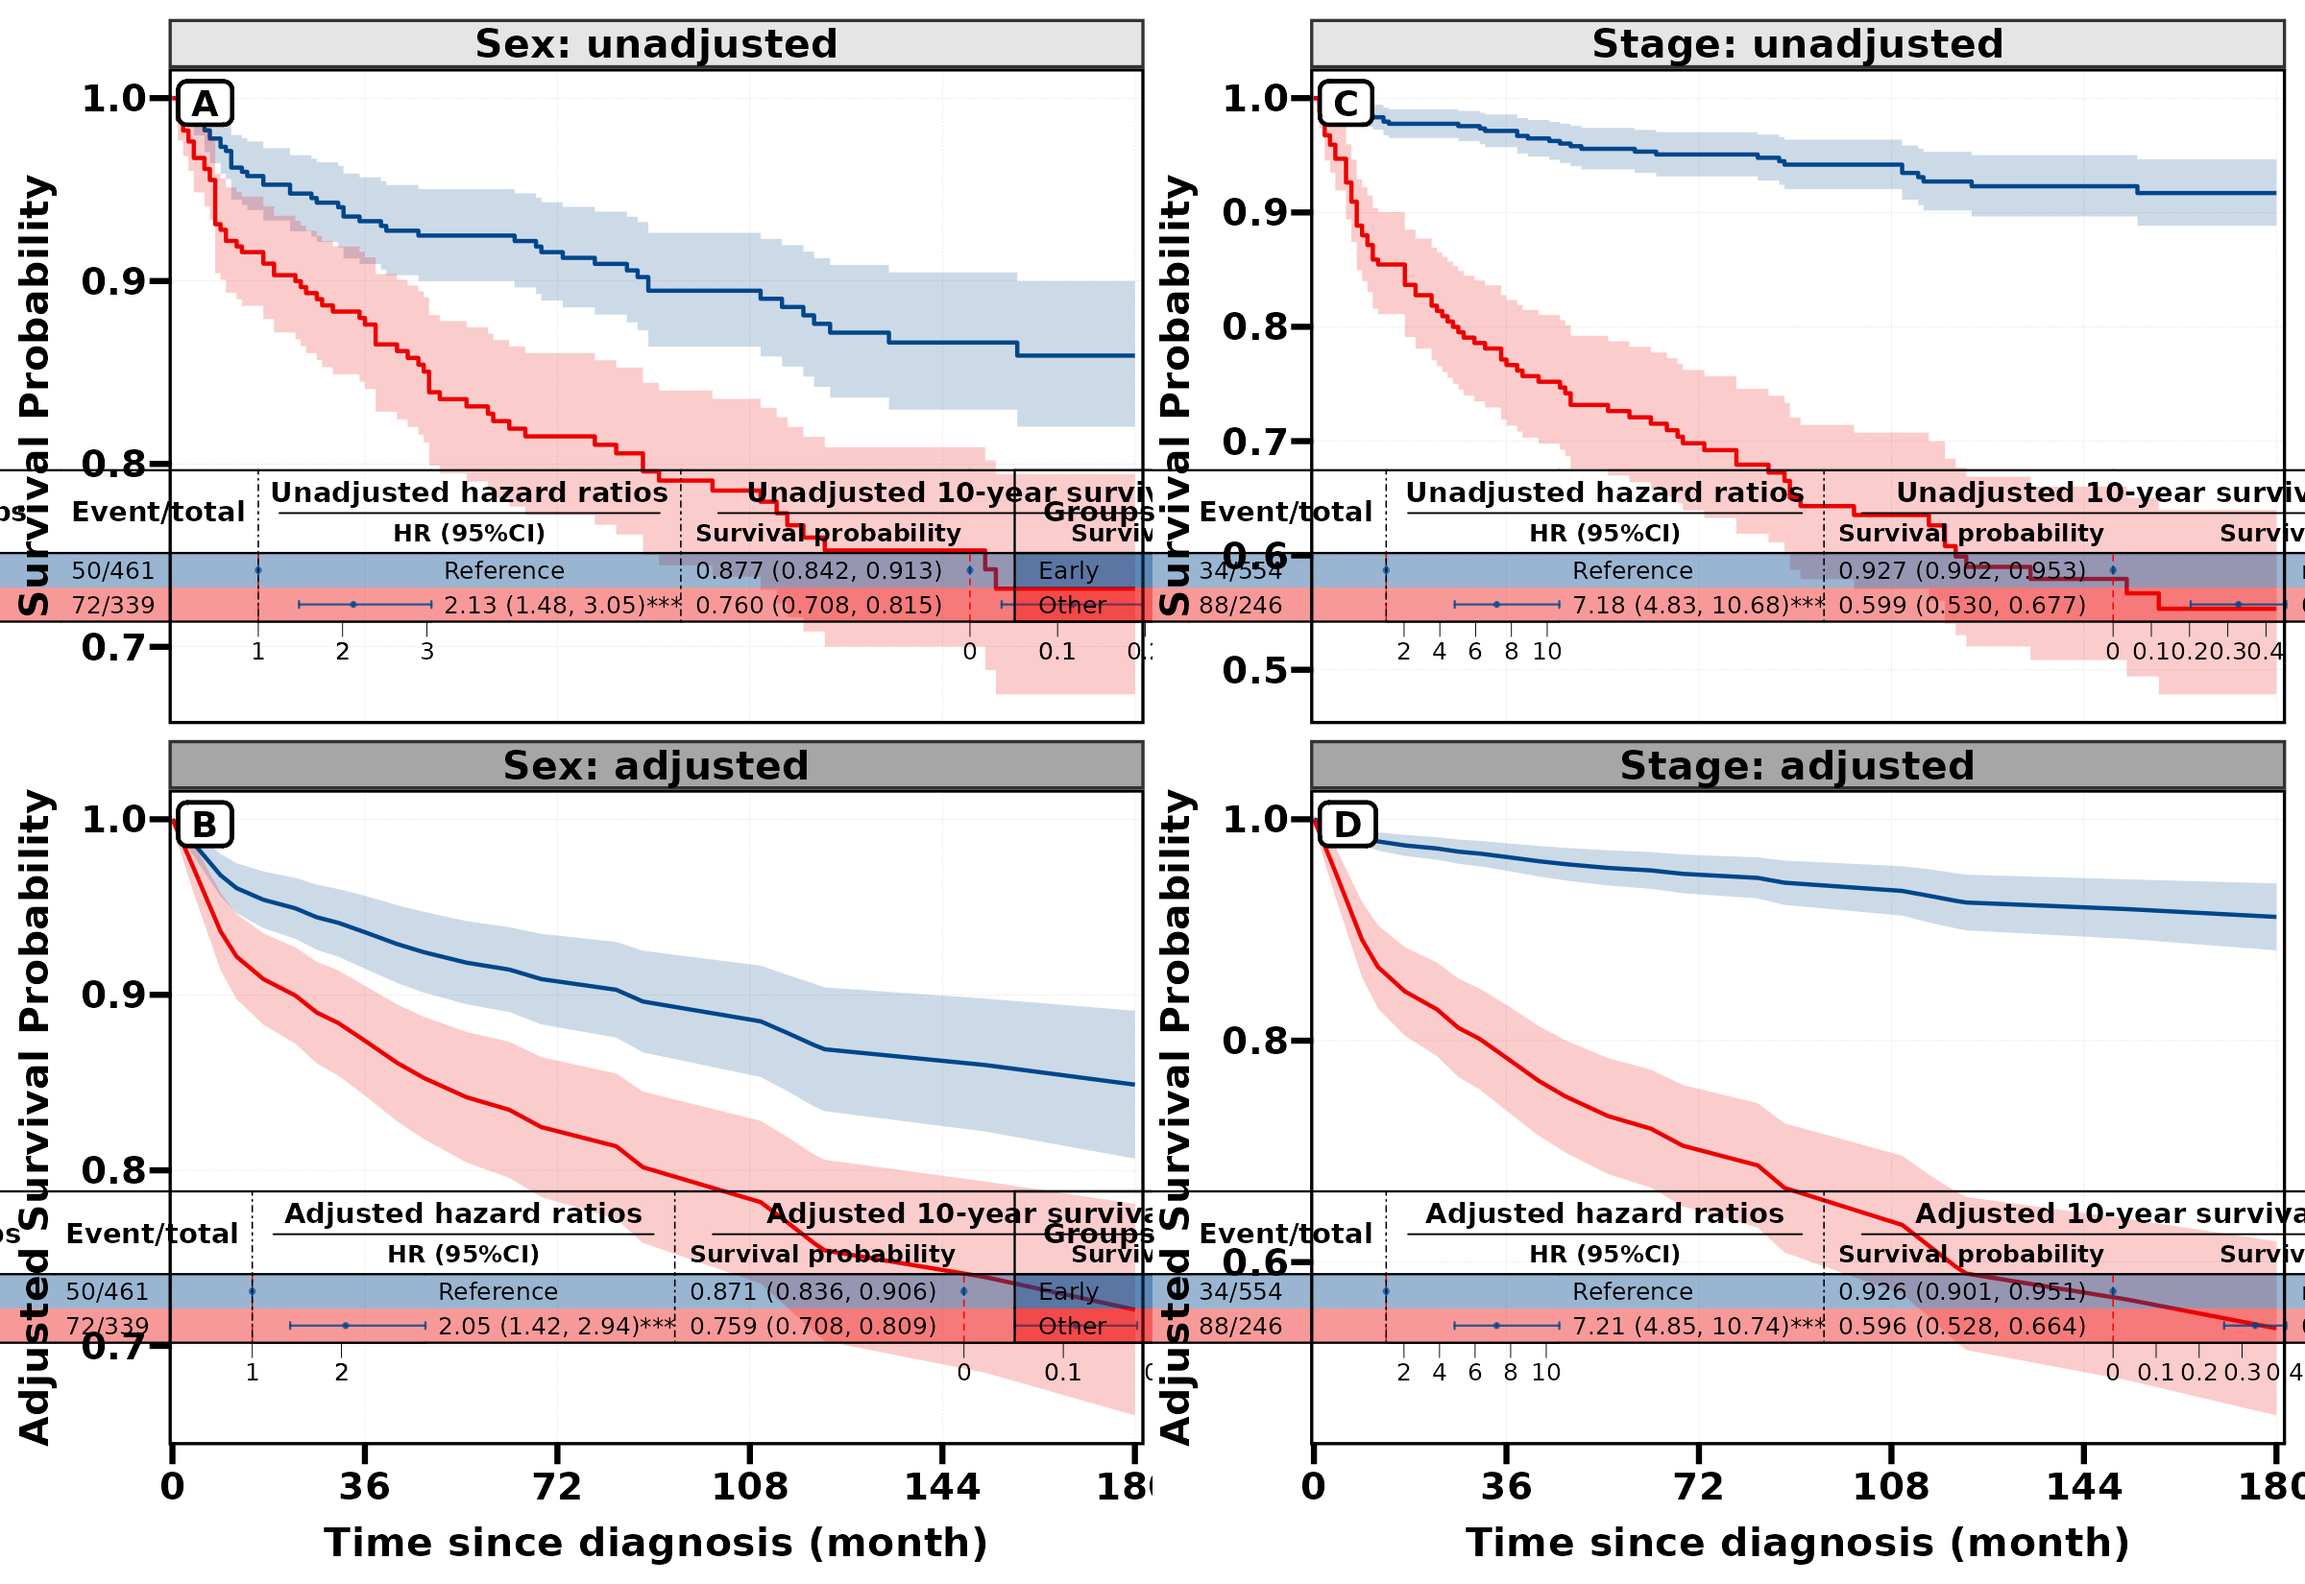
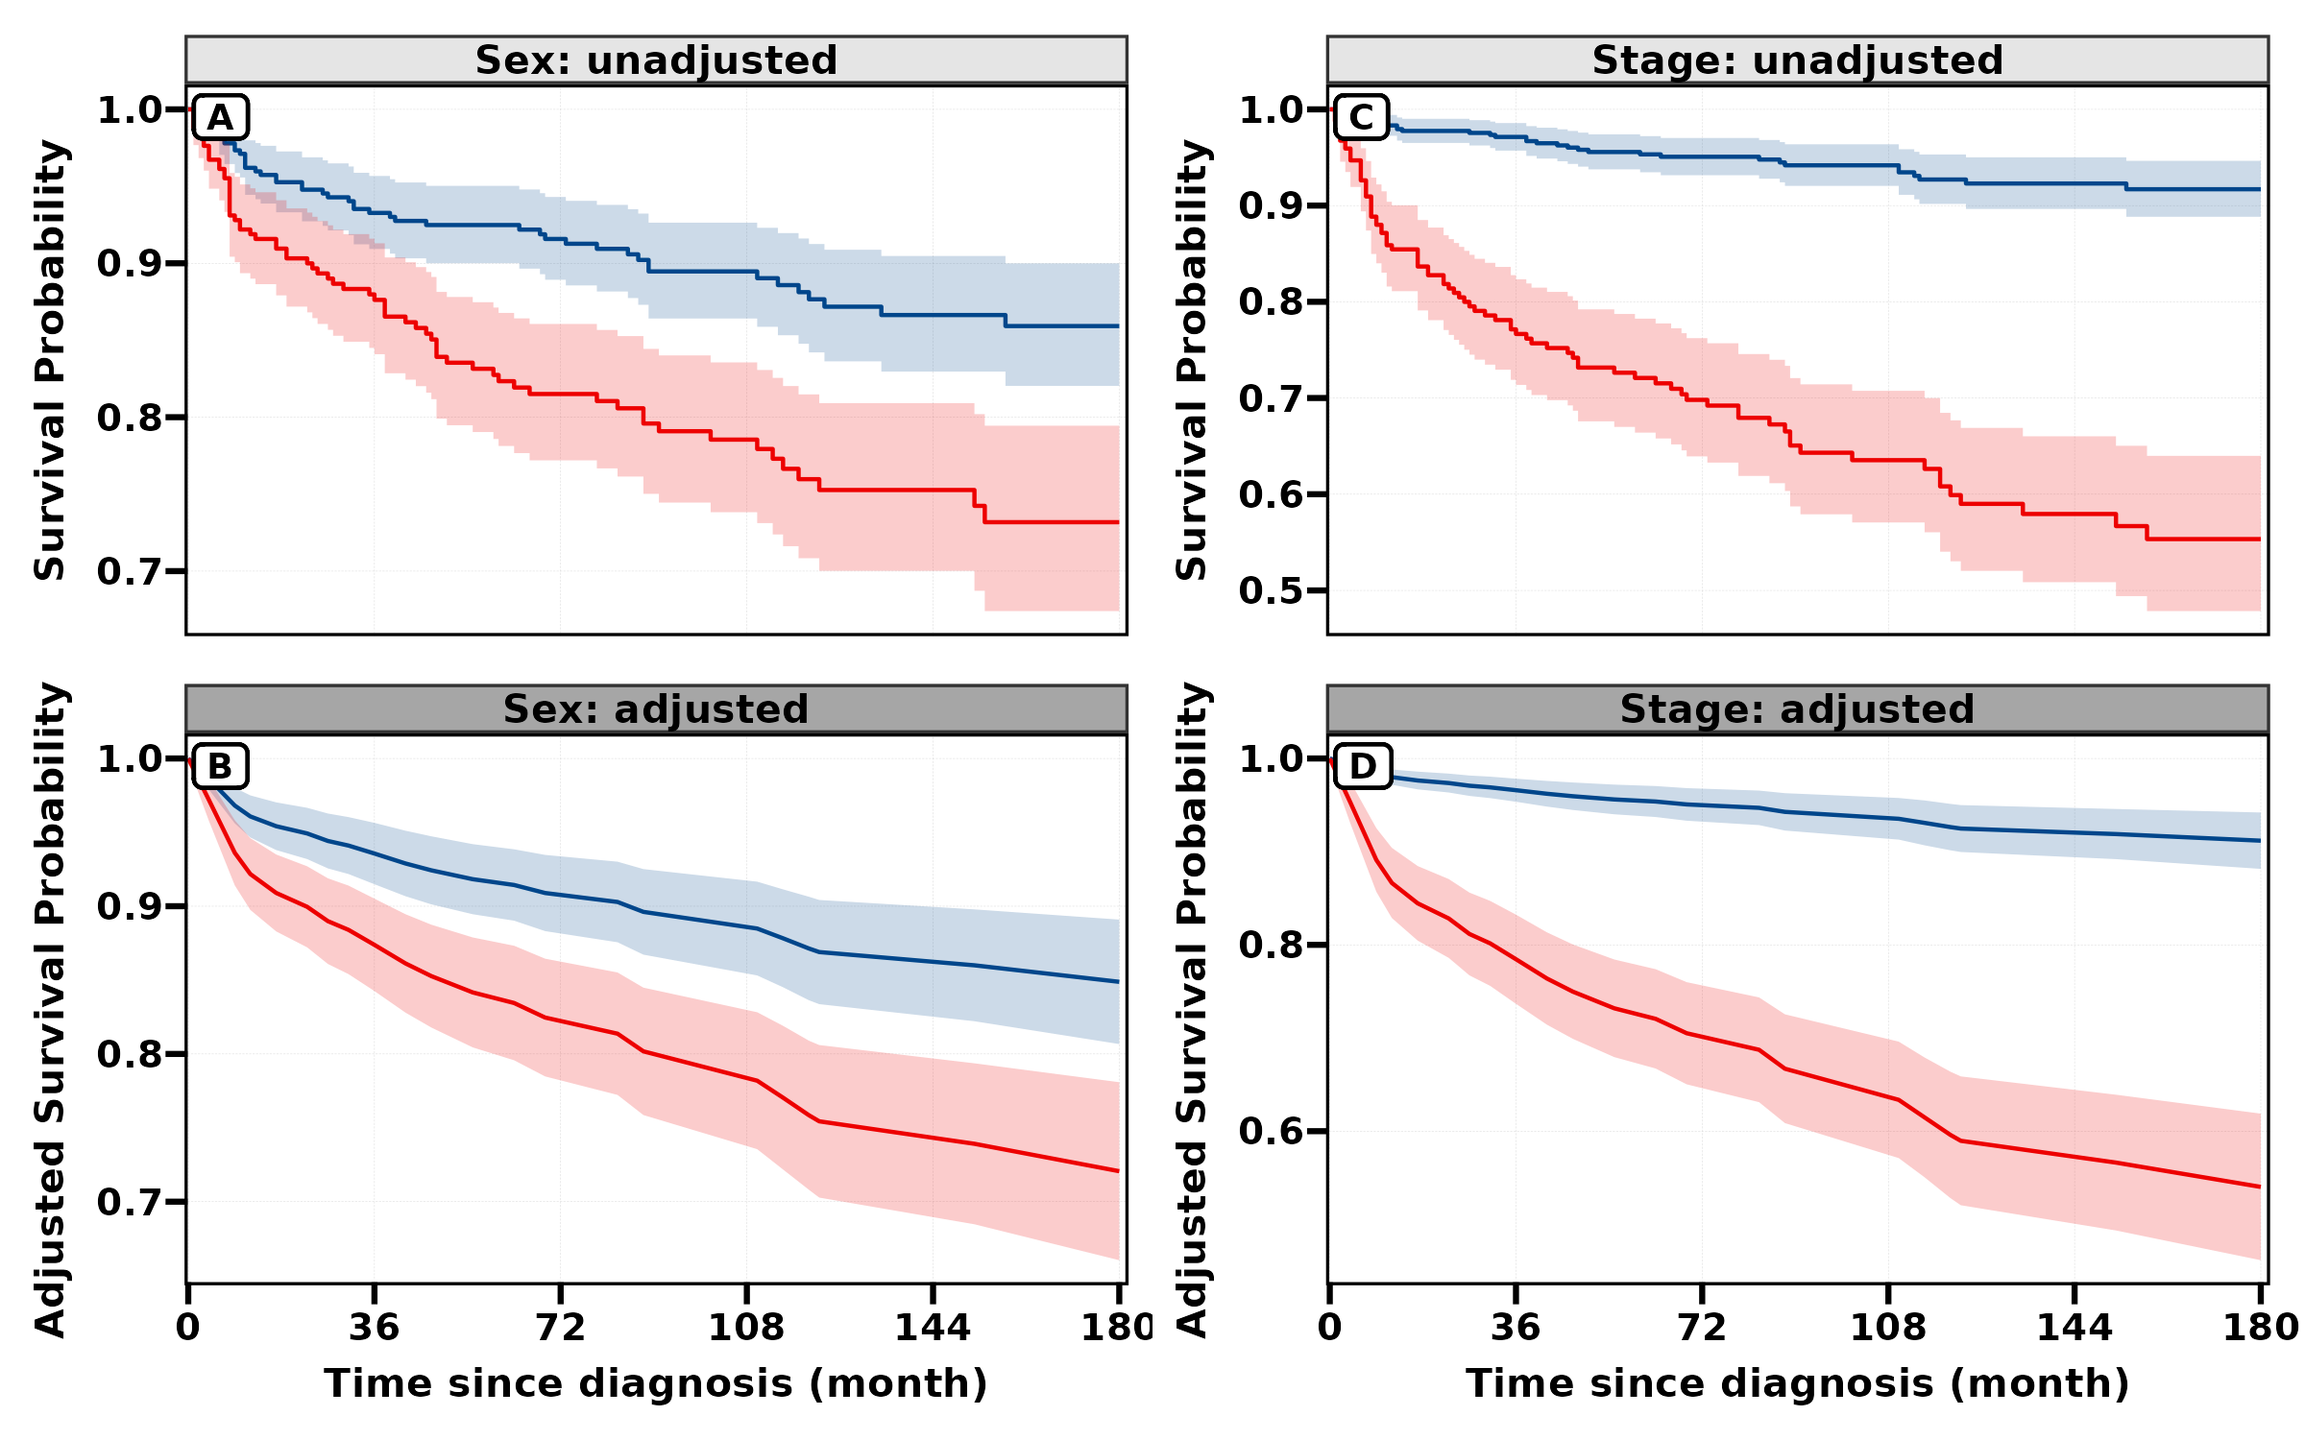
Improve multi-exposure curve margins and table canvas

Changed region(s): [[0.0, 0.0, 1.0, 0.9813], [0.375, 0.644, 0.4375, 0.6747]]

diff --git a/docs/regr/cat-guide.html b/docs/regr/cat-guide.html
@@ -1290,7 +1290,7 @@ window.Quarto = {
 <!-- cat-run: cat1-multicategory -->
 <div class="code-copy-outer-scaffold"><div class="sourceCode" id="cb12"><pre class="sourceCode r code-with-copy"><code class="sourceCode r"><span id="cb12-1"><a href="#cb12-1" aria-hidden="true" tabindex="-1"></a>cat_multi <span class="ot">&lt;-</span> <span class="fu">get_cat</span>(d, <span class="at">cat_var =</span> <span class="st">"Race"</span>, <span class="at">adj_var =</span> <span class="fu">c</span>(<span class="st">"Age"</span>, <span class="st">"Sex"</span>),</span>
 <span id="cb12-2"><a href="#cb12-2" aria-hidden="true" tabindex="-1"></a>                     <span class="at">timepoint =</span> <span class="dv">120</span>)</span>
-<span id="cb12-3"><a href="#cb12-3" aria-hidden="true" tabindex="-1"></a><span class="fu">plt_cat1</span>(cat_multi, <span class="at">display =</span> <span class="st">"sur"</span>, <span class="at">max_t =</span> <span class="dv">180</span>,</span>
+<span id="cb12-3"><a href="#cb12-3" aria-hidden="true" tabindex="-1"></a><span class="fu">plt_cat1</span>(cat_multi, <span class="at">plot.margin =</span> <span class="dv">12</span>, <span class="at">display =</span> <span class="st">"sur"</span>, <span class="at">max_t =</span> <span class="dv">180</span>,</span>
 <span id="cb12-4"><a href="#cb12-4" aria-hidden="true" tabindex="-1"></a>         <span class="at">xbreaks =</span> <span class="fu">seq</span>(<span class="dv">0</span>, <span class="dv">180</span>, <span class="dv">36</span>),</span>
 <span id="cb12-5"><a href="#cb12-5" aria-hidden="true" tabindex="-1"></a>         <span class="at">sur_arg =</span> <span class="fu">list</span>(<span class="at">ylim =</span> <span class="fu">c</span>(<span class="fl">0.5</span>, <span class="dv">1</span>), <span class="at">ybre =</span> <span class="fu">seq</span>(<span class="fl">0.5</span>, <span class="dv">1</span>, <span class="fl">0.1</span>)))</span></code></pre></div><button title="复制到剪贴板" class="code-copy-button"><i class="bi"></i></button></div>
 <div class="quarto-figure quarto-figure-center">
@@ -1310,20 +1310,21 @@ window.Quarto = {
 <ul class="nav nav-tabs" role="tablist"><li class="nav-item" role="presentation"><a class="nav-link active" id="tabset-2-1-tab" data-bs-toggle="tab" data-bs-target="#tabset-2-1" role="tab" aria-controls="tabset-2-1" aria-selected="true" href="">左右排列与逐暴露标题</a></li><li class="nav-item" role="presentation"><a class="nav-link" id="tabset-2-2-tab" data-bs-toggle="tab" data-bs-target="#tabset-2-2" role="tab" aria-controls="tabset-2-2" aria-selected="false" href="">上下排列</a></li></ul>
 <div class="tab-content">
 <div id="tabset-2-1" class="tab-pane active" role="tabpanel" aria-labelledby="tabset-2-1-tab">
-<div class="code-copy-outer-scaffold"><div class="sourceCode" id="cb13"><pre class="sourceCode r code-with-copy"><code class="sourceCode r"><span id="cb13-1"><a href="#cb13-1" aria-hidden="true" tabindex="-1"></a><span class="fu">plt_cat1</span>(cat_multi, <span class="at">display =</span> <span class="st">"v"</span>, <span class="at">max_t =</span> <span class="dv">180</span>,</span>
+<p>并排示例使用 <code>sur</code> 省去内嵌表；带表的上下布局使用 30 × 16 英寸画布，并减小 <code>core_size</code> 单元格留白。导出图与页面代码采用相同参数。</p>
+<div class="code-copy-outer-scaffold"><div class="sourceCode" id="cb13"><pre class="sourceCode r code-with-copy"><code class="sourceCode r"><span id="cb13-1"><a href="#cb13-1" aria-hidden="true" tabindex="-1"></a><span class="fu">plt_cat1</span>(cat_multi, <span class="at">plot.margin =</span> <span class="dv">12</span>, <span class="at">display =</span> <span class="st">"sur"</span>, <span class="at">max_t =</span> <span class="dv">180</span>,</span>
 <span id="cb13-2"><a href="#cb13-2" aria-hidden="true" tabindex="-1"></a>  <span class="at">xbreaks =</span> <span class="fu">seq</span>(<span class="dv">0</span>, <span class="dv">180</span>, <span class="dv">36</span>),</span>
 <span id="cb13-3"><a href="#cb13-3" aria-hidden="true" tabindex="-1"></a>  <span class="at">strip_arg =</span> <span class="fu">list</span>(<span class="at">strip_label =</span> <span class="fu">list</span>(</span>
 <span id="cb13-4"><a href="#cb13-4" aria-hidden="true" tabindex="-1"></a>    <span class="fu">c</span>(<span class="st">"Sex: unadjusted"</span>, <span class="st">"Sex: adjusted"</span>),</span>
 <span id="cb13-5"><a href="#cb13-5" aria-hidden="true" tabindex="-1"></a>    <span class="fu">c</span>(<span class="st">"Stage: unadjusted"</span>, <span class="st">"Stage: adjusted"</span>))))</span></code></pre></div><button title="复制到剪贴板" class="code-copy-button"><i class="bi"></i></button></div>
 <div class="quarto-figure quarto-figure-center">
 <figure class="figure">
-<p><a href="images/cat-guide/multi-v.png" class="lightbox" data-gallery="quarto-lightbox-gallery-9" title="两个暴露左右排列，各自保留未调整与调整面板和效应表。"><img src="images/cat-guide/multi-v.png" class="img-fluid figure-img" alt="Sex 和演示分期两个独立暴露的四面板曲线。"></a></p>
-<figcaption>两个暴露左右排列，各自保留未调整与调整面板和效应表。</figcaption>
+<p><a href="images/cat-guide/multi-v.png" class="lightbox" data-gallery="quarto-lightbox-gallery-9" title="两个暴露左右排列，各自保留未调整与调整曲线。"><img src="images/cat-guide/multi-v.png" class="img-fluid figure-img" alt="Sex 和演示分期两个独立暴露的四面板曲线。"></a></p>
+<figcaption>两个暴露左右排列，各自保留未调整与调整曲线。</figcaption>
 </figure>
 </div>
 </div>
 <div id="tabset-2-2" class="tab-pane" role="tabpanel" aria-labelledby="tabset-2-2-tab">
-<div class="code-copy-outer-scaffold"><div class="sourceCode" id="cb14"><pre class="sourceCode r code-with-copy"><code class="sourceCode r"><span id="cb14-1"><a href="#cb14-1" aria-hidden="true" tabindex="-1"></a><span class="fu">plt_cat1</span>(cat_multi, <span class="at">display =</span> <span class="st">"h"</span>, <span class="at">max_t =</span> <span class="dv">180</span>,</span>
+<div class="code-copy-outer-scaffold"><div class="sourceCode" id="cb14"><pre class="sourceCode r code-with-copy"><code class="sourceCode r"><span id="cb14-1"><a href="#cb14-1" aria-hidden="true" tabindex="-1"></a><span class="fu">plt_cat1</span>(cat_multi, <span class="at">plot.margin =</span> <span class="dv">12</span>, <span class="at">display =</span> <span class="st">"h"</span>, <span class="at">core_size =</span> <span class="fu">c</span>(<span class="fl">0.5</span>, <span class="dv">1</span>), <span class="at">max_t =</span> <span class="dv">180</span>,</span>
 <span id="cb14-2"><a href="#cb14-2" aria-hidden="true" tabindex="-1"></a>  <span class="at">xbreaks =</span> <span class="fu">seq</span>(<span class="dv">0</span>, <span class="dv">180</span>, <span class="dv">36</span>))</span></code></pre></div><button title="复制到剪贴板" class="code-copy-button"><i class="bi"></i></button></div>
 <div class="quarto-figure quarto-figure-center">
 <figure class="figure">
